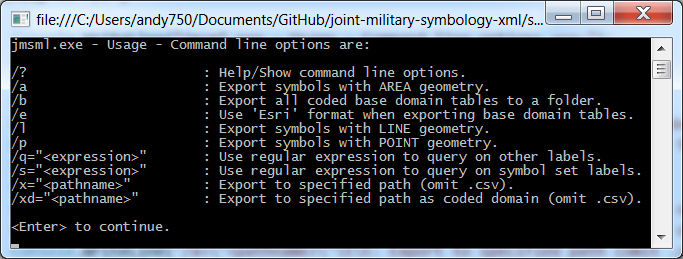
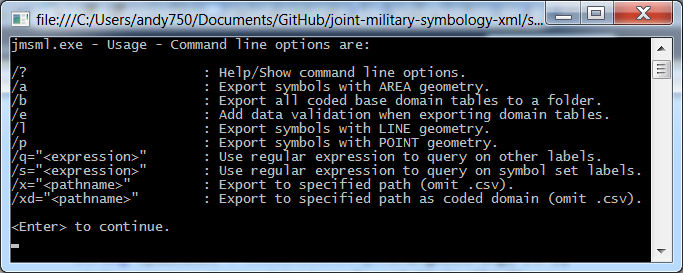
Fixed usage and readme and Trim bug.

diff --git a/source/JointMilitarySymbologyLibraryCS/jmsml/Program.cs b/source/JointMilitarySymbologyLibraryCS/jmsml/Program.cs
@@ -51,7 +51,7 @@ namespace jmsml
                 Console.WriteLine("/?\t\t\t: Help/Show command line options.");
                 Console.WriteLine("/a\t\t\t: Export symbols with AREA geometry.");
                 Console.WriteLine("/b\t\t\t: Export all coded base domain tables to a folder.");
-                Console.WriteLine("/e\t\t\t: Add data validation info when exporting base domain tables.");
+                Console.WriteLine("/e\t\t\t: Add data validation when exporting domain tables.");
                 Console.WriteLine("/l\t\t\t: Export symbols with LINE geometry.");
                 Console.WriteLine("/p\t\t\t: Export symbols with POINT geometry.");
                 Console.WriteLine("/q=\"<expression>\"\t: Use regular expression to query on other labels.");

diff --git a/source/JointMilitarySymbologyLibraryCS/librarian.cs b/source/JointMilitarySymbologyLibraryCS/librarian.cs
@@ -758,9 +758,9 @@ namespace JointMilitarySymbologyLibrary
                 string[] tokens = line.Split(',');
 
                 ss = tokens[0];
-                entity = tokens[1].Trim;
-                entityType = tokens[2].Trim;
-                entitySubType = tokens[3].Trim;
+                entity = tokens[1].Trim();
+                entityType = tokens[2].Trim();
+                entitySubType = tokens[3].Trim();
 
                 if (ss == ssCode)
                 {

diff --git a/samples/README.md b/samples/README.md
@@ -26,7 +26,7 @@ Generated using the following jmsml command line arguments, to extract just the 
 ### Coded Domain Tables ###
 The coded domain tables are comma separated files that have been exported from the JMSML library, for use by developers who need a straightforward dump of its contents.  It contains the label attribute and SIDC code for each element in the standard, exported to multiple files.  The /b switch value should be the location (folder) in which you want the files placed.
 
-The optional /e switch causes the domain value export to add Esri specific output to these files.
+The optional /e switch causes the coded domain table export to add additional data validation information to the output.
 
 	jmsml.exe /b=".'
 	jmsml.exe /b="." /e
